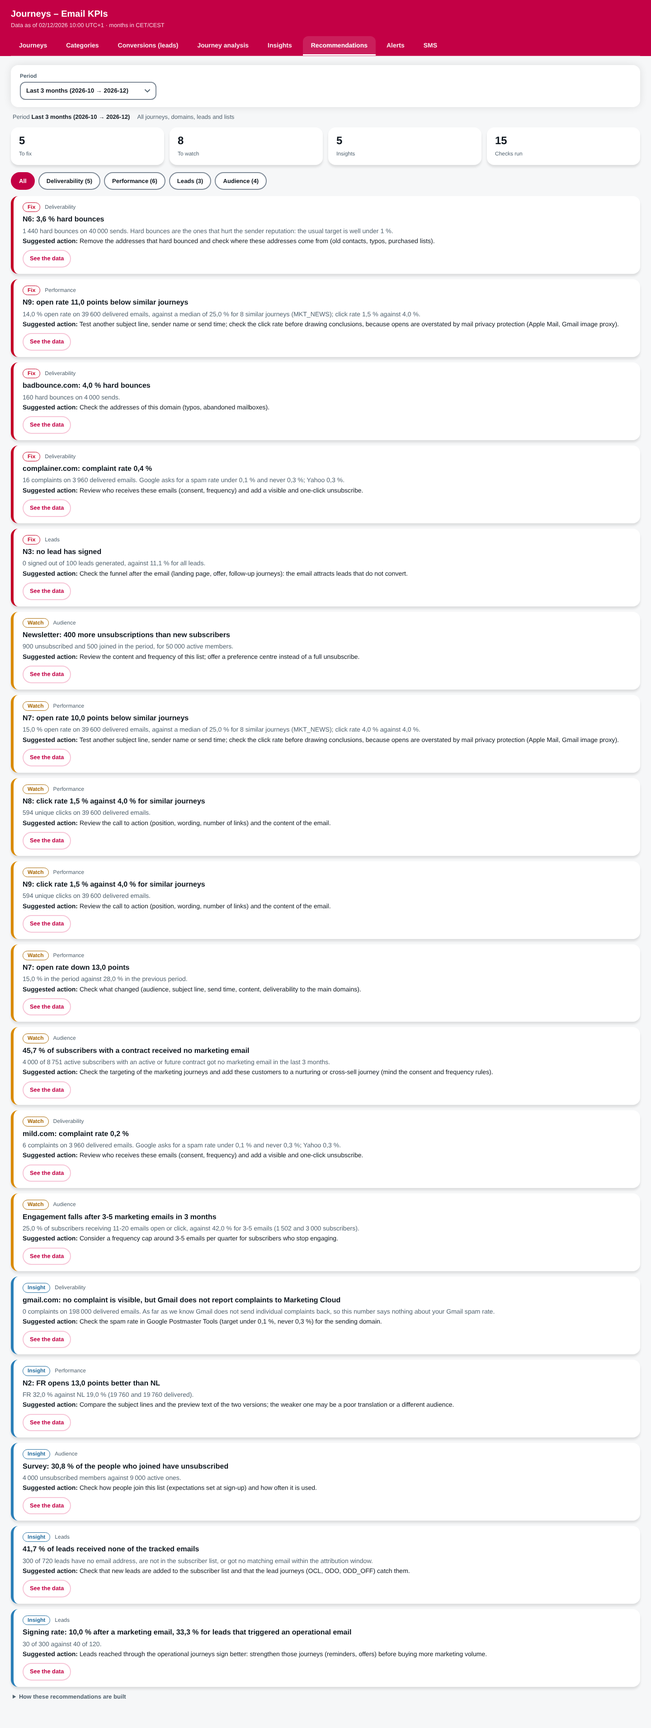
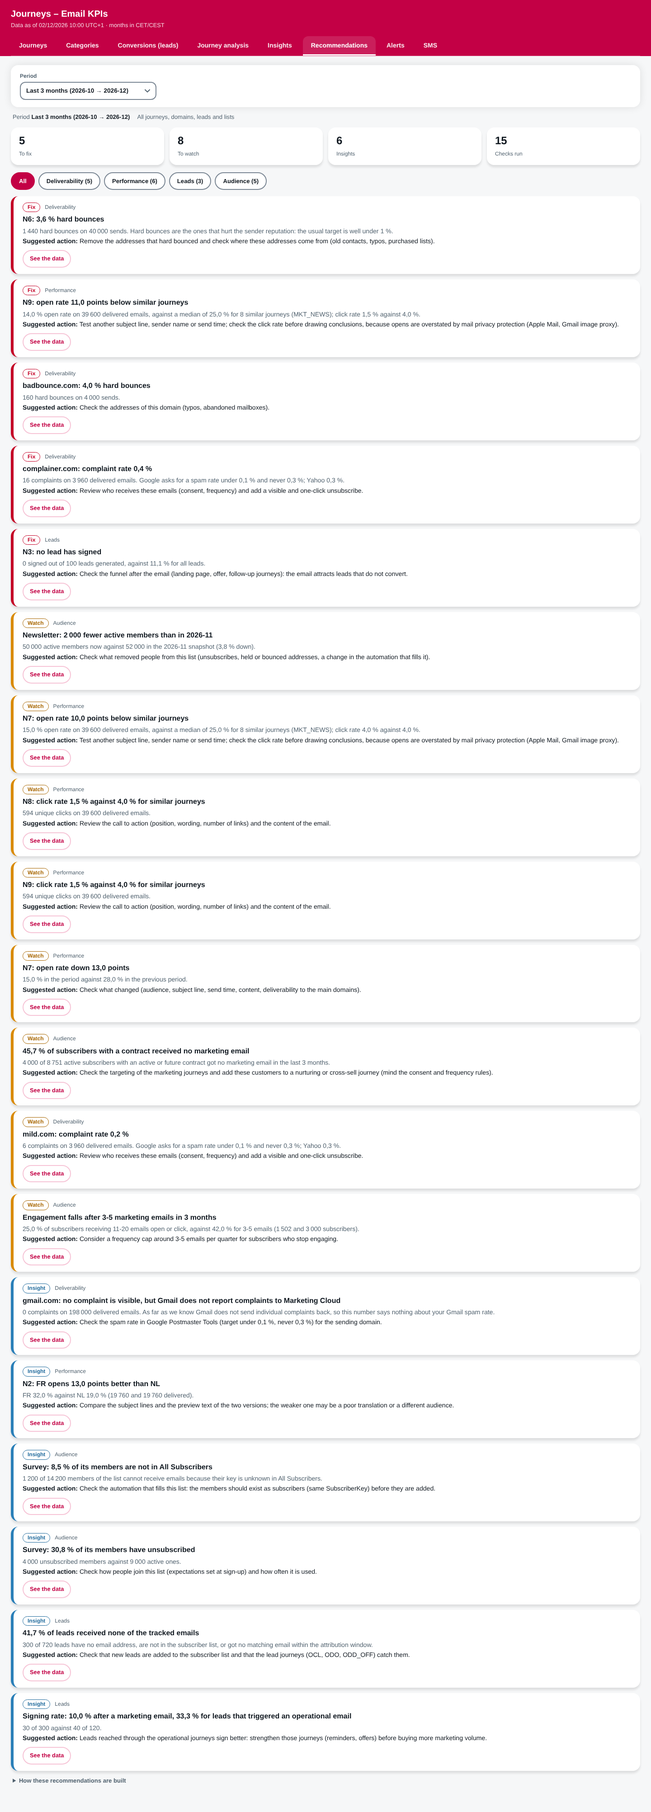
Publication lists based on the DEs List_Info, List_Newsletter, List_Promo and List_Survey; change vs previous snapshot; monthly joined/unsubscribed for All Subscribers only
Claude-Session: https://claude.ai/code/session_01WtzjzeTDomDiWbenzCQNQG

diff --git a/html/cloudpage_dashboard.html b/html/cloudpage_dashboard.html
@@ -962,14 +962,17 @@ function recoRules(){
     if (last!==best && best.e/best.s-last.e/last.s>=gap) F('medium','Audience','Engagement falls after '+best.k+' marketing emails in 3 months',fx1(last.e/last.s*100)+' % of subscribers receiving '+last.k+' emails open or click, against '+fx1(best.e/best.s*100)+' % for '+best.k+' emails ('+n(last.s)+' and '+n(best.s)+' subscribers).','Consider a frequency cap around '+best.k+' emails per quarter for subscribers who stop engaging.',{tab:'ins',sub:'aud'},last.s);
     else F('info','Audience','Engagement holds up to '+last.k+' marketing emails in 3 months',fx1(last.e/last.s*100)+' % of the subscribers receiving '+last.k+' emails open or click, against '+fx1(best.e/best.s*100)+' % at the best level ('+best.k+').','There is no sign of fatigue in the data: frequency is not the main lever for now.',{tab:'ins',sub:'aud'},last.s);
   });
-  run('Publication lists losing subscribers','Audience',()=>{
+  run('Publication lists','Audience',()=>{
     if (A===null) return D.audErr ? 'subscriber data could not be loaded' : 'subscriber data is still loading';
     const L = A.lists; if (!L || !L.snap.length) return 'no publication list data yet (DASH_PubList_Snapshot)';
-    const lists = new Map(); for (const r of L.snap){ let a = lists.get(r.ListName); if(!a){ a={name:r.ListName,act:0,uns:0,j:0,u:0}; lists.set(r.ListName,a); } if (r.Status==='Active') a.act+=r.Subscribers; if (r.Status==='Unsubscribed') a.uns+=r.Subscribers; }
-    for (const r of L.monthly){ if (!inMonths(r.Month)) continue; const a = lists.get(r.ListName); if (a){ a.j+=r.Joined; a.u+=r.Unsubscribed; } }
-    for (const a of lists.values()){ if (a.name==='All Subscribers' || a.act<minS/2) continue;
-      if (a.u>a.j && a.u/a.act>=0.01) F('medium','Audience',a.name+': '+n(a.u-a.j)+' more unsubscriptions than new subscribers',n(a.u)+' unsubscribed and '+n(a.j)+' joined in the period, for '+n(a.act)+' active members.','Review the content and frequency of this list; offer a preference centre instead of a full unsubscribe.',{tab:'ins',sub:'lists'},a.act);
-      else if (a.uns/(a.act+a.uns)>=0.25) F('info','Audience',a.name+': '+pct(a.uns,a.act+a.uns)+' of the people who joined have unsubscribed',n(a.uns)+' unsubscribed members against '+n(a.act)+' active ones.','Check how people join this list (expectations set at sign-up) and how often it is used.',{tab:'ins',sub:'lists'},a.act); }
+    const asofs = [...new Set(L.snap.map(r=>r.AsOf))].sort(), cur = asofs[asofs.length-1], prv = asofs.length>1 ? asofs[asofs.length-2] : null;
+    const by = new Map(); for (const r of L.snap){ if (r.AsOf!==cur && r.AsOf!==prv) continue; let a = by.get(r.ListName); if(!a){ a={name:r.ListName,act:0,uns:0,out:0,prev:null}; by.set(r.ListName,a); }
+      if (r.AsOf===cur){ if (r.Status==='Active') a.act+=r.Subscribers; else if (r.Status==='Unsubscribed') a.uns+=r.Subscribers; else if (r.Status==='Not in All Subscribers') a.out+=r.Subscribers; }
+      else if (r.Status==='Active') a.prev = (a.prev||0)+r.Subscribers; }
+    for (const a of by.values()){ if (a.name==='All Subscribers') continue; const members = a.act+a.uns+a.out;
+      if (a.prev && a.act>=minS/2 && a.prev-a.act>=0.02*a.prev) F('medium','Audience',a.name+': '+n(a.prev-a.act)+' fewer active members than in '+prv,n(a.act)+' active members now against '+n(a.prev)+' in the '+prv+' snapshot ('+fx1((1-a.act/a.prev)*100)+' % down).','Check what removed people from this list (unsubscribes, held or bounced addresses, a change in the automation that fills it).',{tab:'ins',sub:'lists'},a.act);
+      else if (a.uns+a.act>0 && a.uns/(a.act+a.uns)>=0.25) F('info','Audience',a.name+': '+pct(a.uns,a.act+a.uns)+' of its members have unsubscribed',n(a.uns)+' unsubscribed members against '+n(a.act)+' active ones.','Check how people join this list (expectations set at sign-up) and how often it is used.',{tab:'ins',sub:'lists'},a.act);
+      if (members>=minS/2 && a.out/members>=0.05) F('info','Audience',a.name+': '+pct(a.out,members)+' of its members are not in All Subscribers',n(a.out)+' of '+n(members)+' members of the list cannot receive emails because their key is unknown in All Subscribers.','Check the automation that fills this list: the members should exist as subscribers (same SubscriberKey) before they are added.',{tab:'ins',sub:'lists'},members); }
   });
   run('Contract coverage by province','Audience',()=>{
     if (A===null) return D.audErr ? 'subscriber data could not be loaded' : 'subscriber data is still loading';
@@ -1320,16 +1323,19 @@ function viewLists(){
     cards('plCards',[]); $('tPl').innerHTML = ''; $('plNote').textContent = ''; return;
   }
   msg.hidden = true;
-  const lists = new Map(), get = name => { let a = lists.get(name); if (!a){ a = {name,St:{},Act:{Yes:0,No:0},Joined:0,Unsub:0}; lists.set(name,a); } return a; };
-  for (const r of L.snap){ const a = get(r.ListName); a.St[r.Status] = (a.St[r.Status]||0)+r.Subscribers; if (r.Status==='Active') a.Act[r.Contract==='Yes'?'Yes':'No'] += r.Subscribers; }
-  const months = [...new Set(L.monthly.filter(r=>inMonths(r.Month)).map(r=>r.Month))].sort();
-  for (const r of L.monthly){ if (!inMonths(r.Month)) continue; const a = get(r.ListName); a.Joined += r.Joined; a.Unsub += r.Unsubscribed; }
+  const asofs = [...new Set(L.snap.map(r=>r.AsOf))].sort(), cur = asofs[asofs.length-1], prevA = asofs.length>1 ? asofs[asofs.length-2] : null;
+  const lists = new Map(), get = name => { let a = lists.get(name); if (!a){ a = {name,St:{},Act:{Yes:0,No:0},Joined:0,Unsub:0,hasMon:false,Prev:null}; lists.set(name,a); } return a; };
+  const actAt = (name, asof) => L.snap.filter(r=>r.ListName===name && r.AsOf===asof && r.Status==='Active').reduce((s,r)=>s+r.Subscribers,0);
+  for (const r of L.snap){ if (r.AsOf!==cur) continue; const a = get(r.ListName); a.St[r.Status] = (a.St[r.Status]||0)+r.Subscribers; if (r.Status==='Active') a.Act[r.Contract==='Yes'?'Yes':'No'] += r.Subscribers; }
+  for (const r of L.monthly){ if (!inMonths(r.Month)) continue; const a = get(r.ListName); a.hasMon = true; a.Joined += r.Joined; a.Unsub += r.Unsubscribed; }
   const list = [...lists.values()].filter(a=>Object.keys(a.St).length);
+  list.forEach(a=>{ a.Prev = prevA ? actAt(a.name, prevA) : null; });
   const act = a => a.St.Active||0, base = list.find(a=>a.name==='All Subscribers'), baseAct = base ? act(base) : Math.max(0,...list.map(act));
   list.sort((a,b)=>act(b)-act(a));
+  const sgn = v => (v>0?'+':v<0?'−':'')+n(Math.abs(v));
   cards('plCards', [[n(baseAct),'Active subscribers'+(base?'':' (largest list)')],[n(list.filter(a=>a.name!=='All Subscribers').length),'Publication lists'],
-    [n(base?base.Joined:list.reduce((s,a)=>s+a.Joined,0)),'Joined in the period'],[n(base?base.Unsub:list.reduce((s,a)=>s+a.Unsub,0)),'Unsubscribed in the period'],
-    [(()=>{ const j = base?base.Joined:0, u = base?base.Unsub:0; return (j-u>0?'+':j-u<0?'−':'')+n(Math.abs(j-u)); })(),'Net growth in the period']]);
+    [base&&base.hasMon?n(base.Joined):'–','Joined in the period (All Subscribers)'],[base&&base.hasMon?n(base.Unsub):'–','Unsubscribed in the period (All Subscribers)'],
+    [base&&base.Prev!=null?sgn(act(base)-base.Prev):'–','Change in active subscribers since '+(prevA||'the previous snapshot')]]);
   const other = a => Object.keys(a.St).filter(s=>!PL_STATUS_ORDER.includes(s)).reduce((s,k)=>s+a.St[k],0);
   const keyCols = [{k:'name',l:'List',v:a=>a.name.toLowerCase(),f:a=>esc(a.name)}];
   const cols = [
@@ -1339,19 +1345,18 @@ function viewLists(){
     {k:'YesP',l:'% with contract',v:a=>act(a)?a.Act.Yes/act(a):-1,f:a=>act(a)?pct(a.Act.Yes,act(a)):'–'},
     {k:'Uns',l:'Unsubscribed',v:a=>a.St.Unsubscribed||0,f:a=>n(a.St.Unsubscribed||0)},
     {k:'Bnc',l:'Bounced / held',v:a=>(a.St.Bounced||0)+(a.St.Held||0),f:a=>n((a.St.Bounced||0)+(a.St.Held||0))},
-    {k:'Oth',l:'Other statuses',v:a=>other(a),f:a=>n(other(a))},
-    {k:'J',l:'Joined (period)',v:a=>a.Joined,f:a=>n(a.Joined)},
-    {k:'U',l:'Unsubscribed (period)',v:a=>a.Unsub,f:a=>n(a.Unsub)},
-    {k:'Net',l:'Net (period)',v:a=>a.Joined-a.Unsub,f:a=>(a.Joined-a.Unsub>0?'+':a.Joined-a.Unsub<0?'−':'')+n(Math.abs(a.Joined-a.Unsub))}
+    {k:'Oth',l:'Other (e.g. not in All Subscribers)',v:a=>other(a),f:a=>n(other(a))},
+    {k:'Chg',l:'Active vs '+(prevA||'previous snapshot'),v:a=>a.Prev==null?-Infinity:act(a)-a.Prev,f:a=>a.Prev==null?'–':sgn(act(a)-a.Prev)+(a.Prev?' ('+(act(a)>=a.Prev?'+':'−')+fx1(Math.abs(act(a)/a.Prev-1)*100)+' %)':'')},
+    {k:'J',l:'Joined (period)',v:a=>a.hasMon?a.Joined:-1,f:a=>a.hasMon?n(a.Joined):'–'},
+    {k:'U',l:'Unsubscribed (period)',v:a=>a.hasMon?a.Unsub:-1,f:a=>a.hasMon?n(a.Unsub):'–'}
   ];
   renderTable('tPl', keyCols, cols, list, null, {defK:'Act'});
-  const net = (name,m)=>L.monthly.filter(r=>r.ListName===name && r.Month===m).reduce((s,r)=>s+r.Joined-r.Unsubscribed,0);
   drawCharts([
     {title:'Active subscribers by list, with / without a contract',type:'bar',horizontal:true,stacked:true,labels:list.map(a=>a.name),
      sets:[{l:'With an active or future contract',color:'#c30045',colorD:'#ff7da3',d:list.map(a=>a.Act.Yes)},{l:'No active contract',color:'#8a97a2',colorD:'#6b7885',d:list.map(a=>a.Act.No)}]},
-    {title:'Net growth per month (joined − unsubscribed)',labels:months,sets:list.map(a=>({l:a.name,d:months.map(m=>net(a.name,m))}))}
+    {title:'Active members at each monthly snapshot',labels:asofs,sets:list.map(a=>({l:a.name,d:asofs.map(m=>actAt(a.name,m))}))}
   ], ['c8','c9']);
-  $('plNote').textContent = 'Snapshot of '+(D.aud.asof||'–')+' (status of each member of the public and private lists, leads excluded: SubscriberKey starting with 00QP). "All Subscribers" comes from the All Subscribers list (_Subscribers); the other lists from _ListSubscribers. Joined / unsubscribed come from DateJoined / DateUnsubscribed, per month in CET, for the selected period. With contract = at least one Active or Future contract in Contract_Salesforce_1 (Contact__c = SubscriberKey).';
+  $('plNote').textContent = 'Snapshot of '+cur+(prevA?' (compared with '+prevA+')':' (the history builds up with one snapshot per month)')+'. The lists are the data extensions List_Info (Information), List_Newsletter, List_Promo and List_Survey, each member counted once, leads excluded (SubscriberKey starting with 00QP). The status of a member is read from All Subscribers; "Not in All Subscribers" = key unknown there, so that person cannot receive emails. Joined / unsubscribed per month are only available for All Subscribers (the list data extensions have no dates). With contract = at least one Active or Future contract in Contract_Salesforce_1 (Contact__c = SubscriberKey).';
 }
 
 /* ---------- Insights : géographie ---------- */

diff --git a/html/cloudpage_api.html b/html/cloudpage_api.html
@@ -206,7 +206,7 @@ try {
       /* geographie des contacts : indication seule (nombre de contacts par code postal), sans lien avec les envois ; la DE est ecrasee chaque jour */
       var geo = optional(cfgv("contact_geo_de", "DASH_Contact_Geo"), ["PostalCode","Contacts","WithContract","AsOf"], ["Contacts","WithContract"], "DASH_Contact_Geo");
       /* listes de publication : instantane du mois (DASH_PubList_Snapshot) et inscriptions / desinscriptions par mois (DASH_PubList_Monthly) */
-      var plSnap = optional(cfgv("publist_snapshot_de", "DASH_PubList_Snapshot"), ["AsOf","ListName","Status","Contract","Subscribers"], ["Subscribers"], "DASH_PubList_Snapshot", aflt);
+      var plSnap = optional(cfgv("publist_snapshot_de", "DASH_PubList_Snapshot"), ["AsOf","ListName","Status","Contract","Subscribers"], ["Subscribers"], "DASH_PubList_Snapshot");   /* every monthly snapshot: the history is used for the change since the previous month */
       var plMonthly = optional(cfgv("publist_monthly_de", "DASH_PubList_Monthly"), ["ListName","Month","Joined","Unsubscribed"], ["Joined","Unsubscribed"], "DASH_PubList_Monthly");
       Write(Stringify({ part: "audience", asof: asof, dist: dist, geo: geo, publists: { snap: plSnap, monthly: plMonthly }, warnings: warnings }));
     }

diff --git a/README.md b/README.md
@@ -29,7 +29,7 @@ Les demandes ci-dessous (faites à partir de 16 h le 27/11/2026) sont **impléme
 2. **Ajouter à `DASH_Conversions`** (Text) : `OriginKind` (1), `ConvJourney` (200), `ConvEmailName` (200), `ConvSendMonth` (7).
 3. **Vérifier que `Lead_Salesforce_1` contient le champ `LastModifiedDate`** (utilisé comme date de signature approchée).
 4. **Relancer `sql/04_backfill_conversions.sql`** (Run Once, mois par mois si le délai de 30 minutes est dépassé), puis laisser tourner `sql/02_conversions.sql` dans l'automation quotidienne.
-5. **Listes de publication** (nouvelle vue *Insights › Publication lists*) : créer `DASH_PubList_Snapshot` (**AsOf** Text(7), **ListName** Text(200), **Status** Text(20), **Contract** Text(3) en clé primaire ; Subscribers Number) et `DASH_PubList_Monthly` (**ListName** Text(200), **Month** Text(7) en clé primaire ; Joined, Unsubscribed Number). Lancer `sql/26_probe_lists.sql` (cible `DASH_Debug`) pour voir les listes et leur type, puis `sql/25_backfill_publist_monthly.sql` (une fois) et `sql/23_publist_snapshot.sql` / `sql/24_publist_monthly.sql` (quotidiennes, mode Update). Ajouter les deux requêtes à l'automation.
+5. **Listes de publication** (nouvelle vue *Insights › Publication lists*, basée sur les DE `List_Info`, `List_Newsletter`, `List_Promo` et `List_Survey`) : créer `DASH_PubList_Snapshot` (**AsOf** Text(7), **ListName** Text(200), **Status** Text(30), **Contract** Text(3) en clé primaire ; Subscribers Number) et `DASH_PubList_Monthly` (**ListName** Text(200), **Month** Text(7) en clé primaire ; Joined, Unsubscribed Number, uniquement All Subscribers). Lancer d'abord `sql/26_probe_lists.sql` (partie A dans Query Studio : `SELECT TOP 5 *` sur les 4 DE) et vérifier que le champ clé s'appelle bien `SubscriberKey`. Puis `sql/25_backfill_publist_monthly.sql` (une fois) et `sql/23_publist_snapshot.sql` / `sql/24_publist_monthly.sql` (quotidiennes, mode Update). Ajouter les deux requêtes à l'automation.
 6. **Hard bounces** : ajouter le champ `HardBounces` (Number) à `DASH_Journey_KPI_Monthly` et à `DASH_Domain_Monthly`, lancer `sql/12_probes.sql` (sonde P10) pour vérifier les valeurs de `BounceCategory` dans `_Bounce` (les requêtes comptent les catégories qui commencent par « Hard »), puis relancer **une fois** `sql/03_backfill_kpi.sql` et `sql/11_backfill_domain.sql` (mode Update). Sans ce champ, le dashboard fonctionne comme avant et le signale.
 7. Facultatif, pour contrôler l'attribution : `sql/20_audit_months.sql`, puis `sql/19_audit_lead_attribution.sql` (un mois à la fois), `21` et `22` (DE cibles décrites dans `sql/NOTES.md`).
 
@@ -48,18 +48,17 @@ Les demandes ci-dessous (faites à partir de 16 h le 27/11/2026) sont **impléme
 | 10 | **Revue de design** : ligne de contexte sous les filtres (période et filtres appliqués), valeurs des cartes en couleur neutre, 4 cartes KPI principales et les autres en bandeau discret, Deliverability en grille 2 × 2, **tableaux en mode « ratios » par défaut** (bouton « All columns » pour les volumes). | Vérifier la ligne de contexte sur chaque onglet ; les liens enregistrés avant cette version ouvrent le mode ratios. |
 | 11 | **Sélecteur de période** : une seule liste remplace *From / To* (voir la liste ci-dessous). La période choisie est dans l'adresse (`per=`). | Essayer chaque période ; elle est calculée sur la date de « Data as of » (heure belge). Les anciens liens avec `from=` / `to=` sont ignorés (retour à « All periods »). |
 | 12 | **Journey analysis : comparaison de deux journeys** (liste « Compare with »). Tableau de 9 indicateurs côte à côte avec la différence, graphique d'engagement, détail de la journey A en dessous ; la comparaison est dans l'adresse (`j2=`). | Comparer deux journeys (ex. Newsletter Q2 et Q3) sur une période ; vérifier les totaux avec l'onglet Journeys. |
-| 13 | **Insights › Publication lists** : abonnés par liste (actifs, désinscrits, bounced / held), avec ou sans contrat, inscriptions et désinscriptions de la période, croissance nette par mois. Nouvelles DE et requêtes 23 à 26 (étape B, point 5). | Voir la section « À fournir lundi » ci-dessous. |
+| 13 | **Insights › Publication lists** : membres actifs de chaque liste (DE `List_Info`, `List_Newsletter`, `List_Promo`, `List_Survey`) avec ou sans contrat, désinscrits, bounced / held, évolution par rapport à l'instantané du mois précédent ; inscriptions / désinscriptions par mois pour All Subscribers. Nouvelles DE et requêtes 23 à 26 (étape B, point 5). | Voir la section « Listes de publication : à confirmer » ci-dessous. |
 | 14 | **Recommandations** : nouvel onglet *Recommendations* (entre Insights et Alerts). 13 contrôles calculés sur les données déjà chargées : bounce par journey et par domaine, plaintes, baisse du taux de livraison, ouverture et clic sous la médiane des journeys semblables, baisse par rapport à la période précédente, écart FR / NL, emails faibles dans une journey, leads qui ne signent pas, leads sans email, comparaison des origines, abonnés avec contrat non joints, fatigue selon la fréquence, listes qui perdent des abonnés, provinces sous-couvertes. Seuils réglables dans la page admin (*Settings* : `reco_min_sends`, `reco_min_leads`, `reco_gap_pt`). | Vérifier que les constats sont cohérents avec ce que vous connaissez des journeys, ajuster les seuils, regarder la liste « Checks not run » (données manquantes) et le détail via « See the data ». |
 | 15 | **Délivrabilité alignée sur Google, Yahoo et Microsoft** : plaintes à deux niveaux (« Watch » dès 0,1 %, « Fix » dès 0,3 %, repères de Google et Yahoo), bounces séparés en hard et soft (« Watch » dès 1 % de hard bounces, « Fix » dès 2 %), rappel que Gmail ne remonte pas ses plaintes (Postmaster Tools), tableau « chiffres contre références » et encadré des exigences (SPF / DKIM / DMARC, désinscription en un clic) dans *Insights › Deliverability*, ouvertures jugées avec prudence (protection de la vie privée) : un écart d'ouverture n'est « Fix » que si les clics le confirment. | Exécuter la sonde P10 ; vérifier que `HardBounces` se remplit ; comparer la ligne « Complaint rate » avec Google Postmaster Tools. |
 
 **Périodes proposées** : All periods, This month, Previous month, Last 2 months, Last 3 months, This quarter, Previous quarter, Last 6 months, This half-year, Previous half-year, Last 12 months, This year, Previous year. Chaque entrée affiche entre parenthèses les mois couverts.
 
-### À fournir lundi : noms des DE des listes de publication
-Les requêtes 23 à 25 lisent les listes **sans connaître vos DE** : elles utilisent les Data Views `_List` et `_ListSubscribers` (toutes les listes de type Public ou Private) et `_Subscribers` pour « All Subscribers ». Pour finaliser, j'ai besoin de :
-1. le résultat de `26_probe_lists.sql` (nom, type et nombre de membres de chaque liste), pour confirmer les noms exacts (All Subscribers, promo, newsletter, survey, information) et les types ;
-2. les **noms des DE qui alimentent chaque liste** : `sql/27_publist_vs_source_de_TEMPLATE.sql` en fait un contrôle d'écart (abonnés dans la DE mais pas actifs sur la liste, et inversement). Il suffit de remplacer `SOURCE_DE_NAME`, `LIST_NAME` et le nom du champ clé.
-Hypothèses à vérifier lors du premier essai : les colonnes `_List.ListType` et `_ListSubscribers.Status` / `DateJoined` / `DateUnsubscribed`, et que « All Subscribers » est bien couverte par `_Subscribers`.
-
+### Listes de publication : à confirmer
+Les requêtes 23 à 25 lisent directement les DE `List_Info` (affichée « Information »), `List_Newsletter`, `List_Promo` et `List_Survey`, et le statut de chaque membre est lu dans `_Subscribers` (clé inconnue = « Not in All Subscribers »). Pour finaliser, j'ai besoin de :
+1. le résultat de `SELECT TOP 5 *` sur les 4 DE (`26_probe_lists.sql`, partie A) : **nom du champ clé** (hypothèse : `SubscriberKey`, sinon adapter la variable `KEY` de la requête) et éventuelles colonnes de statut ou de date ;
+2. si les DE ont des colonnes de date d'inscription / désinscription, les inscrits et désinscrits par mois pourront être ajoutés pour chaque liste (pour l'instant, seul All Subscribers les a ; les autres affichent « – »).
+Sans dates, l'historique se construit avec un instantané par mois : la colonne « Active vs mois précédent » apparaît dès le 2ᵉ instantané.
 ### Rappels de sécurité
 - Le token du dashboard a été collé dans une conversation : **changez-le** (page admin, onglet *Settings*).
 - Si une plage d'IP temporaire a été ajoutée pour une revue (`160.79.106.0/24`), **retirez-la** de `DASH_IP_Allowlist`.
@@ -79,8 +78,8 @@ Hypothèses à vérifier lors du premier essai : les colonnes `_List.ListType` e
 | DASH_SMS_Monthly | **JourneyName** Text(200), **Month** Text(7), **AssetName** Text(200), Sent, Messages, UniqueRecipients, Delivered, Bounced (Number) |
 | DASH_Sub_Monthly | **SubscriberKey** Text(100), **Month** Text(7), RecMkt, RecOps, OpenMkt, ClickMkt (Number) : par abonné et par mois, journeys MKT_ / Oxx_ (s'accumule, jamais écrasée) |
 | DASH_Audience_Dist | **AsOf** Text(7), **Win** Text(2), **Contract** Text(3) (Yes/No), **RecBucket** Text(6), **Seg** Text(15), Subscribers, ReceivedMkt, ReceivedOps, OpensMkt, ClicksMkt, Months (Number) |
-| DASH_PubList_Snapshot | **AsOf** Text(7), **ListName** Text(200), **Status** Text(20), **Contract** Text(3) (clé primaire sur les 4 champs), Subscribers (Number) : abonnés par liste de publication et par statut, avec ou sans contrat actif ou futur ; un instantané par mois |
-| DASH_PubList_Monthly | **ListName** Text(200), **Month** Text(7), Joined, Unsubscribed (Number) : inscriptions et désinscriptions par liste et par mois (s'accumule) |
+| DASH_PubList_Snapshot | **AsOf** Text(7), **ListName** Text(200), **Status** Text(30), **Contract** Text(3) (clé primaire sur les 4 champs), Subscribers (Number) : membres par liste (Information, Newsletter, Promo, Survey, All Subscribers), statut lu dans `_Subscribers`, avec ou sans contrat actif ou futur ; un instantané par mois |
+| DASH_PubList_Monthly | **ListName** Text(200), **Month** Text(7), Joined, Unsubscribed (Number) : inscriptions et désinscriptions par mois, All Subscribers uniquement (s'accumule) |
 | DASH_Contact_Geo | **PostalCode** Text(10), Contacts (Number), WithContract (Number), AsOf Text(10) : contacts par code postal (indication seule) ; écrasée chaque jour |
 | DASH_Product_Map | **Source** Text(10), **Value** Text(100), **ProductGroup** Text(30) (clé primaire sur les 3 champs) : mapping des produits (email / lead `Page_Origin__c` / contrat `Product2__c`), géré depuis la page d'administration ; **nécessaire aux requêtes 02 et 04** |
 | DASH_Config | **ConfigKey** Text(50), Value Text(200) : voir « Configuration » |

diff --git a/sql/NOTES.md b/sql/NOTES.md
@@ -105,13 +105,12 @@ Basées sur votre requête de reporting (quarterly) et adaptées au rythme mensu
 ## Page d'administration
 Voir la section « Page d'administration » du README (page `html/cloudpage_admin.html`). La page écrit dans `DASH_IP_Allowlist` et `DASH_Config` (par WSProxy, avec repli sur `UpsertData` / `DeleteData` par nom de DE) et vérifie chaque écriture par relecture. Les champs lus sont `IPAddress` / `Description` et `ConfigKey` / `Value`.
 
-## Listes de publication (23 à 27)
-Source : Data Views `_List` (nom et type), `_ListSubscribers` (statut et dates par membre) et `_Subscribers` pour « All Subscribers ». Sont retenues les listes de type `Public` ou `Private` ; les listes d'exclusion, de désabonnement global et Salesforce sont ignorées. Les leads (`SubscriberKey` commençant par `00QP`) sont exclus.
-- **23** `DASH_PubList_Snapshot` (clé : AsOf, ListName, Status, Contract), mode Update : nombre de membres par liste, statut (Active, Unsubscribed, Bounced, Held, Deleted…) et contrat actif ou futur (Yes / No, même définition que la base abonnés). Un instantané par mois (`AsOf`) est conservé.
-- **24** et **25** `DASH_PubList_Monthly` (clé : ListName, Month), mode Update : inscriptions (`DateJoined`) et désinscriptions (`DateUnsubscribed`) par mois en CET. 24 recalcule les 3 derniers mois chaque jour ; 25 est le chargement initial depuis le 01/01/2025 (date modifiable en tête du fichier).
-- **26** sonde : liste, type et nombre de membres de chaque liste (cible `DASH_Debug`, Overwrite), pour vérifier les noms et les types.
-- **27** modèle de contrôle d'écart entre une DE source et les membres actifs d'une liste ; remplacer `SOURCE_DE_NAME`, `LIST_NAME` et le champ clé `SubscriberKey`.
-- Hypothèses à confirmer au premier essai : colonnes `_List.ListType`, `_ListSubscribers.Status`, `DateJoined`, `DateUnsubscribed`, et valeurs de `ListType`.
+## Listes de publication (23 à 26)
+Source : les DE `List_Info` (« Information »), `List_Newsletter`, `List_Promo` et `List_Survey` (champ clé supposé `SubscriberKey`, variable `KEY` dans le générateur), plus `_Subscribers` pour « All Subscribers ». Chaque membre est compté une fois par liste ; les leads (`00QP…`) et valeurs vides sont exclus. Le statut vient de `_Subscribers` ; une clé absente de `_Subscribers` donne « Not in All Subscribers ».
+- **23** `DASH_PubList_Snapshot` (clé : AsOf, ListName, Status, Contract), mode Update : membres par liste, statut et contrat actif ou futur (Yes / No). Un instantané par mois (`AsOf`) est conservé ; le dashboard compare le dernier au précédent.
+- **24** et **25** `DASH_PubList_Monthly` (clé : ListName, Month), mode Update : inscriptions (`DateJoined`) et désinscriptions (`DateUnsubscribed`) par mois en CET, **All Subscribers uniquement** (les DE de listes n'ont pas de dates connues). 24 recalcule les 3 derniers mois chaque jour ; 25 est le chargement initial depuis le 01/01/2025.
+- **26** sondes : `SELECT TOP 5 *` sur les 4 DE (Query Studio) et comptage de lignes / clés distinctes (cible `DASH_Debug`).
+- La requête 27 (comparaison avec une DE source) n'existe plus.
 - Test : la logique des requêtes 23 et 25 a été vérifiée sur une base de test (DuckDB) contre un calcul indépendant ; elles n'ont pas encore tourné dans Marketing Cloud.
 
 ## Délivrabilité : références des fournisseurs
